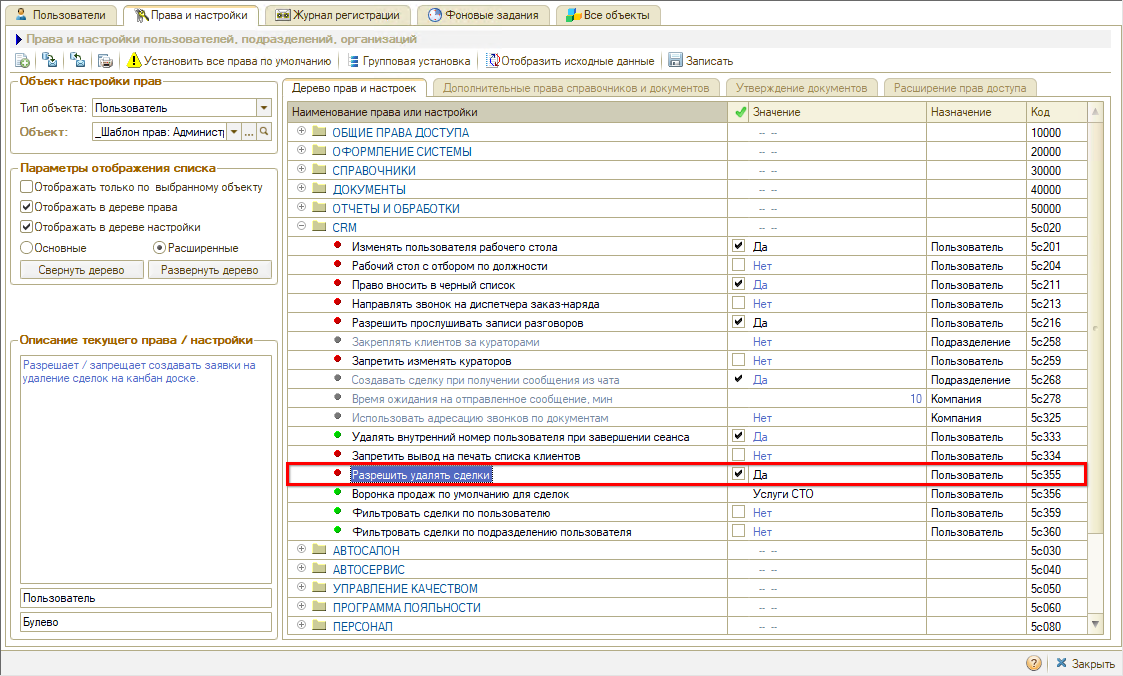
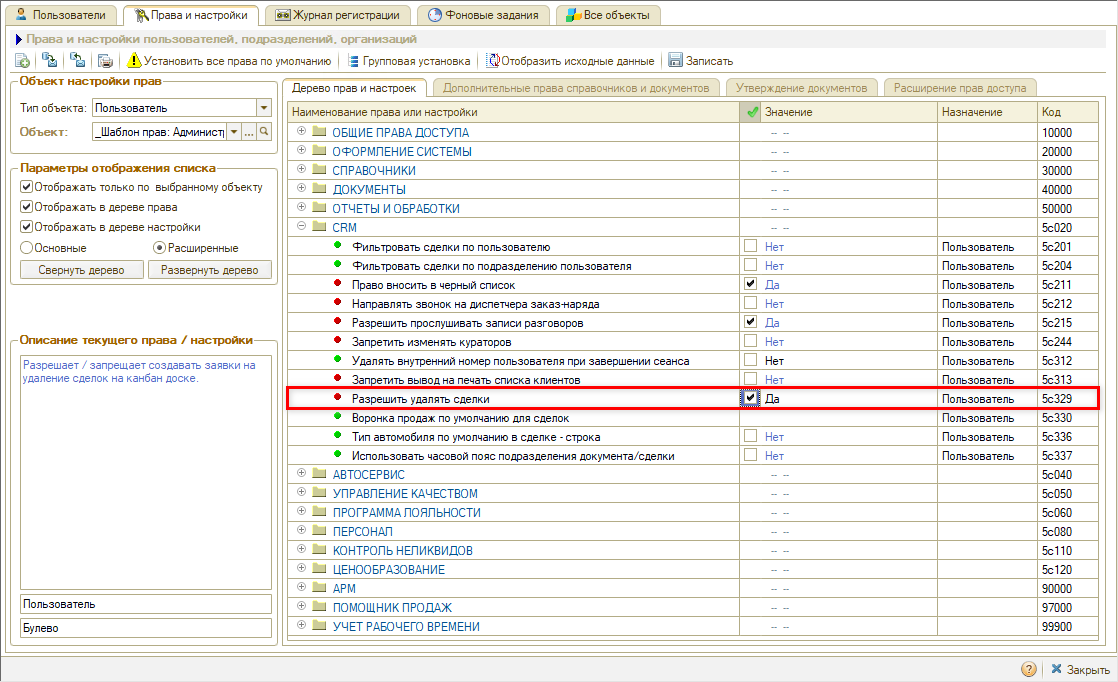
Совет «Нет кнопки «Объединить процессы» в групповых действиях со сделками» (Katya): обновлён скриншот права «Разрешить удалять сделки» и код 5c329 (27.11.2026).

Changed region(s): [[0.0, 0.0, 1.0, 0.9941]]

diff --git a/tips/5S AUTO/CRM/Нет кнопки «Объединить процессы» в групповых действиях со сделками/net-knopki-obedinit-processy.md b/tips/5S AUTO/CRM/Нет кнопки «Объединить процессы» в групповых действиях со сделками/net-knopki-obedinit-processy.md
@@ -21,7 +21,7 @@
 1. Откройте *Администрирование → Сервис → Пользователи и права → Установка прав и настроек* (или нажмите кнопку **«Права и настройки»** в карточке пользователя — см. «[Установка прав и настроек пользователя → Переход к установке Прав и настроек](../../../../articles/5S%20AUTO/Пользователи%20и%20права/Установка%20прав%20и%20настроек%20пользователя/ustanovka-prav-i-nastroek-polzovatelya.md#переход-к-установке-прав-и-настроек)»).
 2. В блоке **«Объект настройки прав»** для типа объекта **«Пользователь»** выберите нужного сотрудника или шаблон прав должности (чтобы выдать право сразу нескольким должностям, используйте [групповую установку прав](../../../../articles/5S%20AUTO/Пользователи%20и%20права/Установка%20прав%20и%20настроек%20пользователя/ustanovka-prav-i-nastroek-polzovatelya.md#групповая-установка-прав)).
 3. В блоке **«Параметры отображения списка»** переключитесь на **«Расширенные»** (см. «[Основные и расширенные права](../../../../articles/5S%20AUTO/Пользователи%20и%20права/Установка%20прав%20и%20настроек%20пользователя/ustanovka-prav-i-nastroek-polzovatelya.md#основные-и-расширенные-права)»).
-4. В дереве прав раскройте раздел **«CRM»** и найдите право **«Разрешить удалять сделки»** (код `5c355`).
+4. В дереве прав раскройте раздел **«CRM»** и найдите право **«Разрешить удалять сделки»** (код `5c329`).
 5. Установите значение **«Да»** и нажмите **«Записать»**:
 
    ![Право «Разрешить удалять сделки» в разделе «CRM»](attachments/02-pravo-udalyat-sdelki.png)
